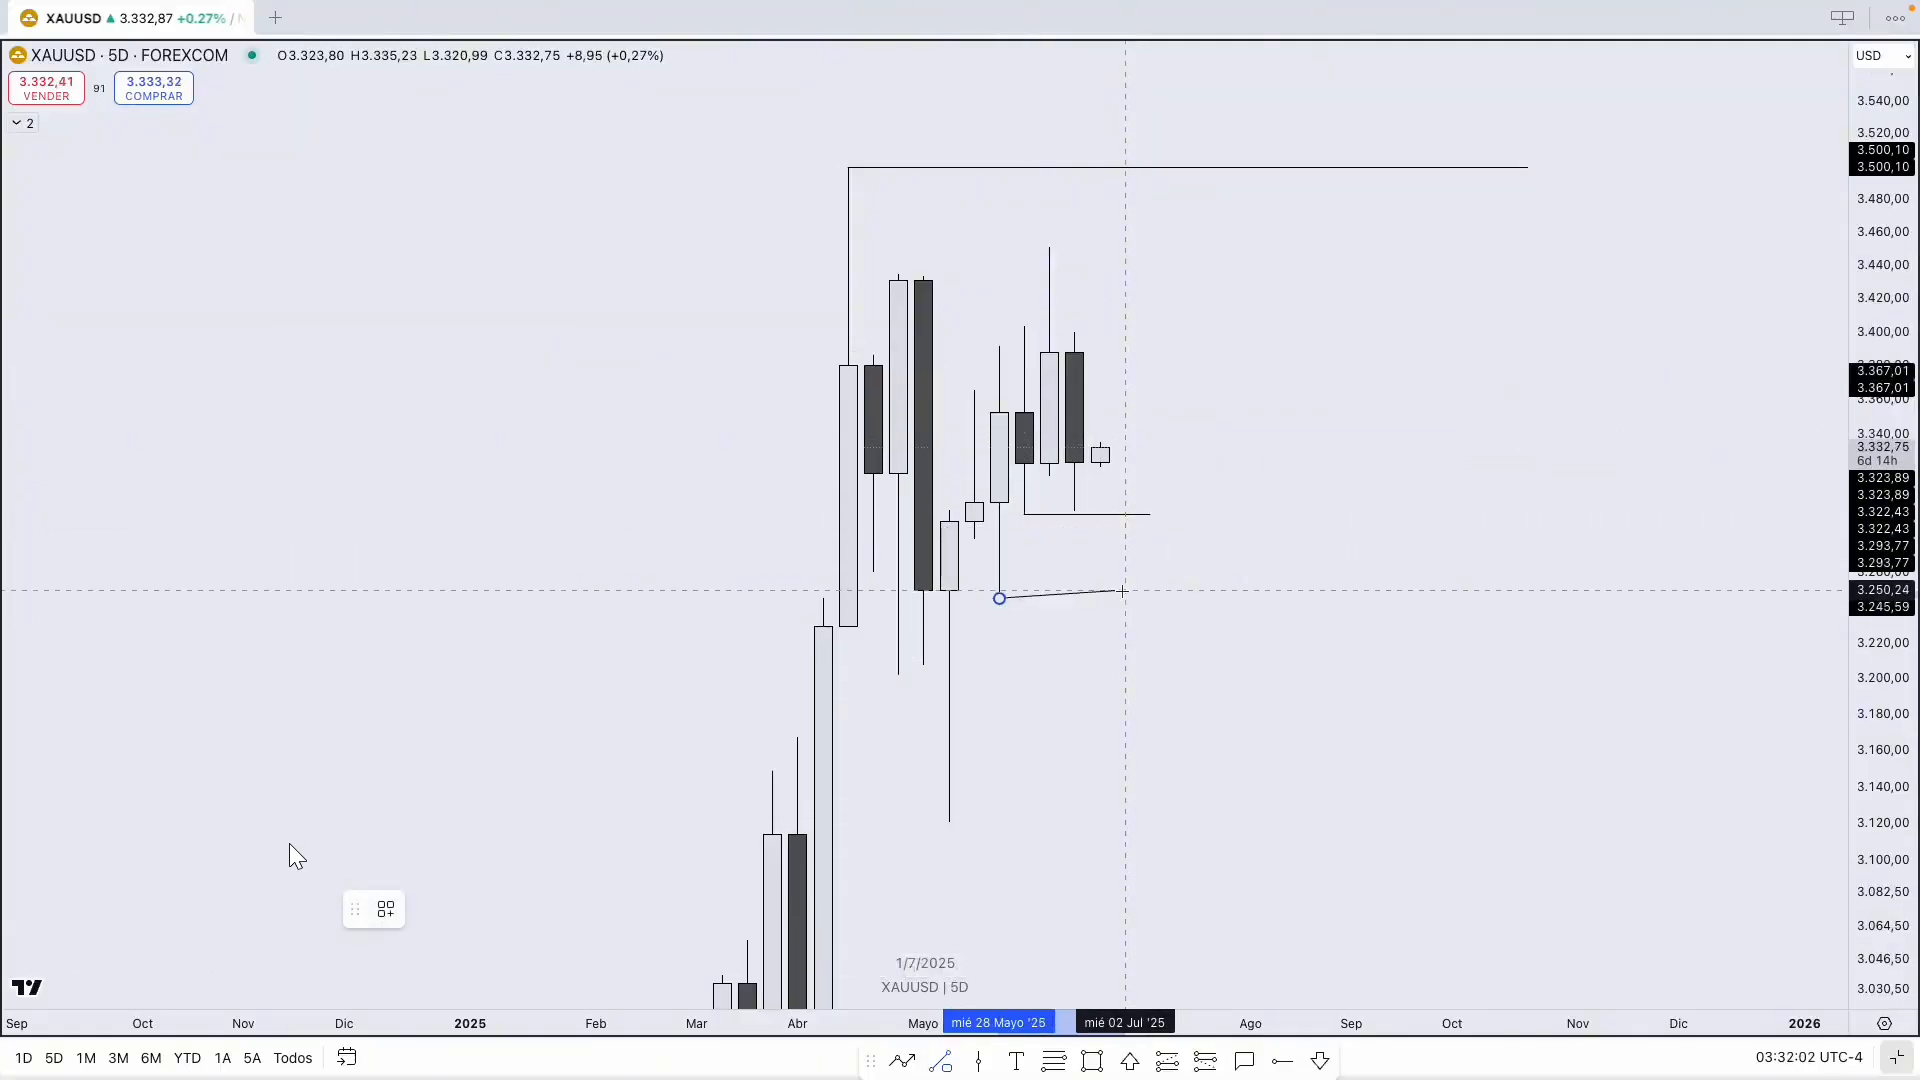
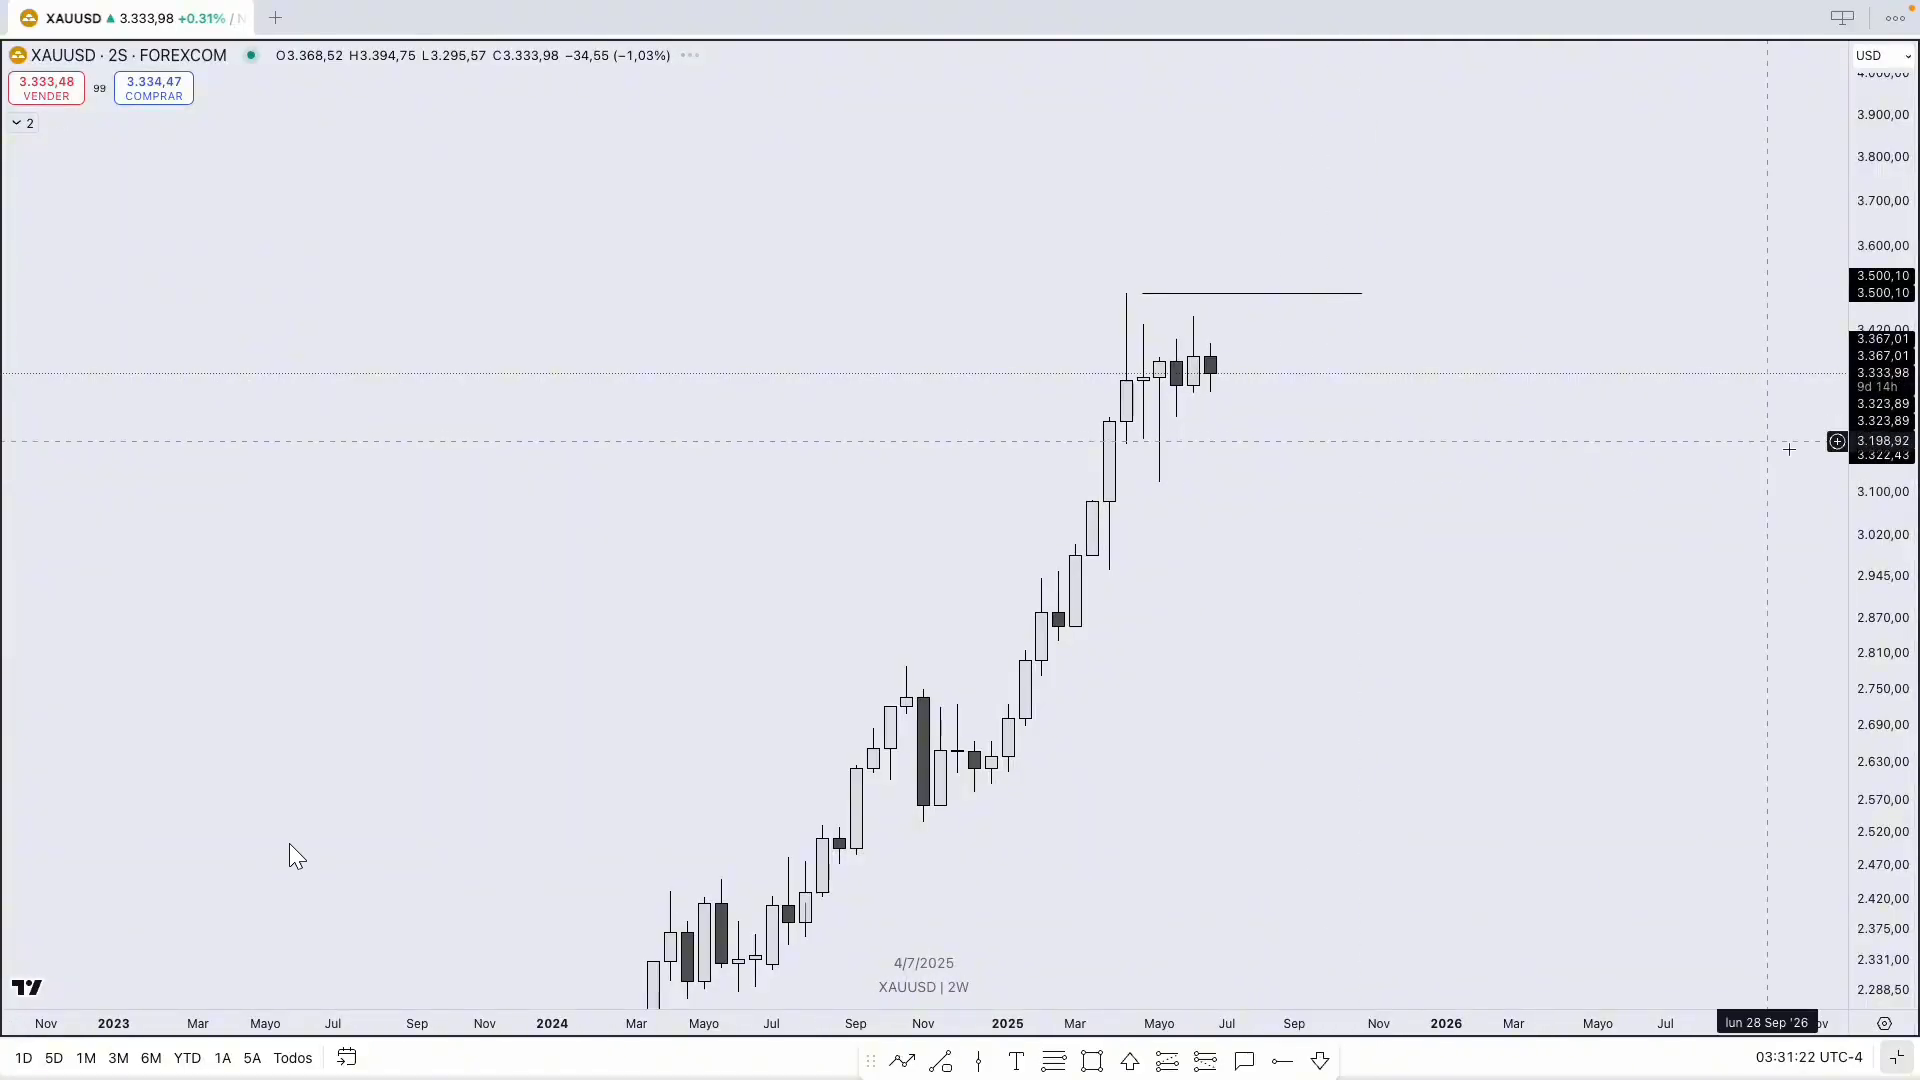
sync 08:43

diff --git a/main/10-projects/Echo/The Lab/V4 — Shot 2/2 — Preflight Evidence (U01–U06).md b/main/10-projects/Echo/The Lab/V4 — Shot 2/2 — Preflight Evidence (U01–U06).md
@@ -1,0 +1,143 @@
+# V4 Shot 2 — Evidencia de preflight (U01–U06 + A01/A02), revisión 2
+
+**Fecha de recolección:** 2026-10-20 23:48–00:40 CLST y 2026-10-21 11:15–11:40 CLST. **Emitida por:** Submanager Shot 2 (GLM-5.3-Flash Max, host daedalus, local). **Naturaleza:** trabajo directo read-only del submanager; NO constituye verificación independiente (reconocido en el dictamen Manager 2026-10-21). Los deltas de repo se citan contra `xKoRx/echo` @ `d74b6525` (origin/master 2026-10-20) y rama `origin/feature/e04-dev-ingest-recovery` @ `4aad647b`; PG DEV = `echo-develop` @ .220 vía MCP `aranea-postgres-rw` (sólo SELECT). Sin secretos; sin dumps pesados.
+
+**Clasificación de estados:** `VERIFIED` = evidencia mecánica reproducible obtenida por consulta/comando citado; `SPECIFIED_FOR_IMPLEMENTATION` = diseño fijado en el paquete rev 2, por demostrar en implementación; `NOT_DEMONSTRATED` = frontera abierta, acotada a la acción que bloquea.
+
+## Correcciones respecto de FINDINGS-U01-U06.md (2026-10-20)
+
+| # | Afirmación de la rev 1 | Estado real verificado | Evidencia |
+|---|---|---|---|
+| C1 | "065 (lab_curves_v3) NO aplicada en DEV" | **FALSA.** `echo.lab_curves`, `lab_curve_points`, `lab_curve_metrics` existen en DEV con el schema exacto de 065 (registry_namespace, strategy_version_ref, algorithm_id, algorithm_version, config_digest, history_digest…) y owner `echo_user`. El efecto de 065 está aplicado a mano como el de las demás | E06 |
+| C2 | "distribución del journal: mediana ~500, p95 ~25k ops" | **Incorrecta.** Distribución real REFERENCE por (strategy_id, canonical_symbol): 210 grupos, p50=19, p75=33, p95=59, p99=24.682, max=56.884 ops; por strategy_id: 131, p50=30, p95=64, max=132.805. Los SLOs y el workload del benchmark se congelan con la distribución medida | E09 |
+| C3 | "DEV con efectos aplicados a mano, sin tabla de control" (alcance parcial) | **Alcance completo:** DEV NO tiene ninguna tabla `schema_migrations` en ningún schema; toda la historia 001→065/068-carece de control. La reconciliación de la tabla de control es prerrequisito del plan de migraciones, no un detalle | E05 |
+| C4 | "066 sin aplicar en DEV" | **Confirmada.** No existen `echo.futures_*`; además el Core DEV desplegado (binario 2026-10-20 04:05) no muestra actividad de proyector ni del topic en logs recientes (0 líneas en últimas 200 y en ventana 20:00+) | E08 |
+
+## E01 — Divergencia e04 vs master (R01)
+
+- **Entorno:** clon `~/aranea/work/lab-v4-shot2-20261020/echo` (daedalus). **Fecha:** 2026-10-21.
+- **Comando:** `git log --oneline d74b6525..4aad647b`; `git rev-list --count 4aad647b..d74b6525`; `git diff d74b6525...4aad647b --stat`.
+- **Resultado:** 5 commits exclusivos de e04 (`2360369c` seeds+ingest wiring, `2498042f` policy_id gate, `3d260e81` platform token + migración, `988e0ae6` guard DeleteVar/dump mirror, `4aad647b` renumber 064→068); 305 commits del lado master; diff 34 archivos (+1.388/−852).
+- **Limitación:** equivalencia por contenido verificada por lectura de diffs y `git cherry` (patch-id), no por ejecución de tests de ambas ramas.
+- **Referencia:** reproducible con los mismos comandos en cualquier clon que tenga ambos refs.
+
+## E02 — Protección de seeds: master ya supera la variante e04 (R01)
+
+- **Entorno:** ídem E01. **Fecha:** 2026-10-21.
+- **Comando:** `git show d74b6525:v2/sdk/etcd/echo_seed_test.go` (y `v3/sdk/etcd/echo_seed_test.go`).
+- **Resultado:** master contiene `//go:build seeds` + `requireSeedAuthorization` (opt-in `ECHO_SEED_ALLOW`, `ETCD_ENDPOINTS` obligatorio, guard `isProductionClusterHost` contra apuntar DEV al clúster PROD) en v2 y v3. e04 además trae tooling nuevo (`v3/sdk/etcd/bootstrap.go` +215, `echo_config.go` +80, `cmd/echo-etcd-bootstrap` +127) y reescritura de seed tests que master no necesita.
+- **Limitación:** no se ejecutaron las suites `seeds` de ninguna rama (prohibido: escritura ETCD).
+- **Referencia:** repo `xKoRx/echo`, paths citados.
+
+## E03 — e04 modifica 061 en sitio (R01)
+
+- **Entorno:** ídem. **Fecha:** 2026-10-21.
+- **Comando:** `git diff d74b6525...4aad647b -- v3/sdk/postgres/migrations/061_identity_bwc_foundation.up.sql`; `git log --oneline 4aad647b -- <061>`.
+- **Resultado:** el commit `2360369c` agrega a 061 `echo.fn_mig061_owned()` y convierte en condicionales los drops de `v_lab_strategy_screener` y de 4 constraints FK de tablas `lab_*`. Es un **edit in-place de una migración ya aplicada** — se rechaza su adopción; la intención (lab legacy admin-owned en DEV) se captura en la migración nueva de retiro legacy de V4 con guard de ownership equivalente.
+- **Limitación:** ninguna material; la intención está además confirmada físicamente en E07.
+- **Referencia:** diff citado.
+
+## E04 — Migración 068 y CHECK de plataforma ya aplicado a mano en DEV (R01)
+
+- **Entorno:** repo + PG DEV. **Fecha:** 2026-10-21.
+- **Comando:** `git show 4aad647b:v3/sdk/postgres/migrations/068_strategy_version_forge_platform.up.sql`; SQL: `SELECT conname, pg_get_constraintdef(oid) FROM pg_constraint WHERE conrelid='echo.strategy_versions'::regclass AND contype='c'`.
+- **Resultado:** 068 reemplaza `chk_strategy_versions_platform` a `IN ('MT5','MT4','MetaTrader5','MetaTrader4')` (down se niega si hay filas Forge); DEV YA tiene ese CHECK de 4 tokens (efecto aplicado a mano, archivo de migración ausente de master). La receta de identidad `contracts.StrategyVersionRef` incluye `target_platform` en el hash (`v3/sdk/contracts/evidence.go:16-31`) → normalizar la grafía cambiaría `version_ref`; los tokens sellados se preservan tal cual.
+- **Limitación:** ninguna.
+- **Referencia:** diff + SQL citados.
+
+## E05 — DEV sin tabla de control de migraciones (R01)
+
+- **Entorno:** PG DEV. **Fecha:** 2026-10-21.
+- **Comando:** `SELECT table_name FROM information_schema.tables WHERE table_name ILIKE '%migration%'` (sin filtro de schema).
+- **Resultado:** 0 filas. El runner canónico es golang-migrate + `schema_migrations` (header de 061; toolkit `v3/toolkit/cmd/apply-migration`), pero DEV nunca tuvo la tabla.
+- **Limitación:** la reconstrucción del estado "qué migración quedó aplicada" se hará por verificación de efectos objeto a objeto en la tarea de reconciliación (no por la tabla, que no existe).
+- **Referencia:** SQL citado.
+
+## E06 — 065 aplicada en DEV, owner echo_user (R01 — corrige C1)
+
+- **Entorno:** PG DEV. **Fecha:** 2026-10-21.
+- **Comando:** SQL `information_schema.columns` sobre `echo.lab_curves`; join `pg_class/pg_roles`.
+- **Resultado:** schema de `lab_curves` coincide campo a campo con `065_lab_curves_v3.up.sql` (única migración que crea esas tablas); owner `echo_user`.
+- **Limitación:** contenido (filas) no auditado; irrelevante para el plan (V4 reemplaza las superficies lab legacy).
+- **Referencia:** SQL + archivo de migración.
+
+## E07 — Objetos lab legacy admin-owned en DEV (R01/R03 — soporta el guard)
+
+- **Entorno:** PG DEV. **Fecha:** 2026-10-21.
+- **Comando:** `SELECT c.relname, r.rolname FROM pg_class c ... WHERE relname IN ('v_lab_strategy_screener','lab_strategy_segments','lab_canonical_trades','lab_strategy_outcomes','lab_strategy_metric_snapshots',...)`.
+- **Resultado:** los 5 objetos citados por el guard de e04 son owner `admin`; `strategy_versions`, `promotion_records`, `canonical_operations`, `trade_journal`, `lab_curves*` son owner `echo_user`. No existen `strategy_histories` ni `futures_*`.
+- **Limitación:** ninguna.
+- **Referencia:** SQL citado.
+
+## E08 — 066 sin objetos y proyector sin actividad observable (R05)
+
+- **Entorno:** PG DEV + systemd/journalctl --user (daedalus, servicios DEV). **Fecha:** 2026-10-21.
+- **Comando:** SQL `information_schema.tables WHERE relname IN ('futures_operations','futures_fills',...)`; `systemctl --user list-units --type=service --state=running | grep echo`; `journalctl --user -u echo-core-dev.service -n 200 --no-pager | grep -icE "projector|operation-facts"`.
+- **Resultado:** 0 tablas `futures_*` (066 sin aplicar en DEV); servicios DEV activos: `echo-core-dev` (StateFun :9090), `echo-gateway-dev` (:8090), `echo-front-dev` (:4173); binarios desplegados `echo-core` 2026-10-20 04:05, `echo-gateway` 2026-10-19 10:19; 0 líneas de proyector/topic en logs recientes.
+- **Limitación:** observación directa sobre DEV; **PROD no inspeccionado** (fuera de alcance por mandato): la existencia de consumidores físicos de 066 en PROD queda `NOT_DEMONSTRATED` y bloquea sólo el retiro/drop de 066, no el desarrollo.
+- **Referencia:** comandos citados.
+
+## E09 — Distribución real del journal y tamaños serializados (R06)
+
+- **Entorno:** PG DEV. **Fecha:** 2026-10-21.
+- **Comando:** `SELECT strategy_id, canonical_symbol, count(*) FROM echo.trade_journal WHERE account_role='REFERENCE' AND status IN ('CLOSED','CLOSED_BY_USER','CLOSED_BY_AGENT') GROUP BY 1,2` + `percentile_cont`; medición de bytes: `octet_length(jsonb_agg(jsonb_build_object(<campos wire v1>))::text)` sobre 3 grupos representativos.
+- **Resultado:** 210 grupos (strategy, symbol): p50=19, p75=33, p95=59, p99=24.682, max=56.884 ops; 131 estrategias: p50=30, p95=64, max=132.805. Tamaño: 412–421 B/op; p50 ≈ 7,9 KB; p95 ≈ 24,8 KB; p99 ≈ 10,3 MB; **max medido 23,65 MB (56.884 ops)**. El formato medido es NDJSON/JSON con los 16 campos de `CanonicalOperationInputV1`; el envelope real añade cabecera y digests (mismo orden de magnitud).
+- **Limitación:** la serialización de medición fue jsonb de PG (no el serializador Go canónico); delta esperado <10%. La historia max (132.805 ops de una estrategia completa multi-símbolo) no se serializó entera: su cota superior es ~55 MB (132.805 × 421 B) — excede el request único de 64 MiB sólo combinada con otra historia grande; los caps por historia lo cubren.
+- **Referencia:** SQL citado; campos wire en `v3/sdk/contracts/strategy_history.go`.
+
+## E10 — Cobertura de risk_money en journal (R03)
+
+- **Entorno:** PG DEV. **Fecha:** 2026-10-21.
+- **Comando:** `SELECT account_role, count(*), count(risk_money) FROM echo.trade_journal GROUP BY 1`.
+- **Resultado:** REFERENCE 137.276 filas, 88.750 con risk_money (64,7%); EXECUTION 245.438, 101.543 (41,4%). Semántica del emisor (`v3/core/internal/functions/mm_engine.go:892-960`): riesgo inicial pre-offset **por ticket** del slave, calculado por el Core como única autoridad (`ComputeCanonicalRisk`, SL del master proyectado al broker del slave; NULL si no computable); `MoneyManagementType` FIXED_LOT/FIXED_RISK_USD.
+- **Limitación:** semántica de ticket, no de presupuesto de ciclo declarado (ver taxonomía R03 en el paquete).
+- **Referencia:** SQL + archivo:línea.
+
+## E11 — Volúmenes DEV de identidad/historia (U06)
+
+- **Entorno:** PG DEV. **Fecha:** 2026-10-21.
+- **Comando:** counts sobre `strategy_versions`, `strategy_identity_mappings`, `promotion_records`, `strategy_history_state`, `canonical_operations`.
+- **Resultado:** 6 versiones (2 plataformas distintas), 7 mappings, 6 promotion_records, 1 history head, 14 canonical_operations (14/14 con `initial_risk_money > 0`).
+- **Limitación:** dataset pequeño de verificación; sirve de fixture, no de muestra estadística.
+- **Referencia:** SQL citado.
+
+## E12 — Contratos del motor y autoridad económica (R02/R03)
+
+- **Entorno:** repo @ `d74b6525`. **Fecha:** 2026-10-21.
+- **Comando:** lectura de `v3/sdk/futures/domain/operation.go` (Operation/Order/Fill), `v3/sdk/futures/operation/engine.go:1051` (pin de `MMConfigSnapshot` al materializar), `v3/sdk/futures/operation/wire.go:64` (OperationFact), `v3/sdk/futures/accounting/ledger.go` (`ApplyFill(fill, feePerContract)`, realización exacta por ticks + fee por contrato/lado), `v3/sdk/futures/domain/economics.go:44` (EconomicPlanRow), `v3/core/internal/functions/mm_engine.go:533-538` (sello canónico del riesgo en CoreCommand).
+- **Resultado:** el agregado Operation ya transporta MMConfigSnapshot pinneado al materializar y Orders con parciales (`CumulativeFilledQty`); el Ledger es la autoridad existente de realizaciones/costes (usado por el backtester; aún no cableado a los facts del runtime live); el sello de riesgo por ticket vive hoy en el Core (motor MT4/MT5), no en el motor futures.
+- **Limitación:** ninguna para nivel de contrato; la verificación conductual (parciales/costes → historia) queda como caso verificable T de implementación.
+- **Referencia:** archivos:líneas citados.
+
+## E13 — Replacement V1 destructivo y patrón de receipts (R04)
+
+- **Entorno:** repo @ `d74b6525`. **Fecha:** 2026-10-21.
+- **Comando:** lectura de `v3/sdk/postgres/strategy_history_service.go:100-160` y `v3/sdk/postgres/migrations/061_identity_bwc_foundation.up.sql:394-414` (promotion_records); `v3/gateway/internal/strategy_history_handler.go:85` (`readLimitedBody` sobre el request completo) y `v3/gateway/internal/config.go:96` (`historyDefaultMaxBodyBytes = 64 MiB`).
+- **Resultado:** el replacement V1 hace `DeleteImportedOperations` (DELETE+INSERT) → destruye la revisión previa; `promotion_records` ya implementa el patrón receipt (idempotency_key sha256, payload_digest, accepted_body_canonical jsonb, status) — el nuevo receipt de ingestion será tabla propia con ese patrón, sin generalizar promotion_records. El límite de 64 MiB aplica al **request completo** (v1: PUT de historia; v2: POST version+historias), sin partial success.
+- **Limitación:** ninguna.
+- **Referencia:** archivos:líneas citados.
+
+## Clasificación de consumidores que determinan naming/cutover (R05 — U05)
+
+| Clase | Elementos | Verificación | Determina |
+|---|---|---|---|
+| Procesos desplegados (DEV) | echo-core-dev (StateFun :9090), echo-gateway-dev, echo-front-dev | VERIFIED hoy (E08) | ventanas de deploy y cutover de topics |
+| Productores del topic `echo.futures.operation-facts.v1` | operation owner (StateFun), futuresruntime, futures-bridge | VERIFIED en código (`v3/sdk/statefun/futures_constants.go:128`, `v3/sdk/futures/operation/wire.go:40`) | naming del topic v2 y cutover de productores |
+| Consumidores del topic v1 | proyector 066 (código en repo; sin actividad observable en DEV; tablas ausentes) | VERIFIED ausencia física DEV; PROD NOT_DEMONSTRATED | retiro de 066 (drop gated, nunca por grep) |
+| Dependencia build-time `v3/sdk/futures` | backtester (49 archivos), core functions/futuresruntime/futuresvertical, futures-bridge, projector | VERIFIED en código (inventario 2026-10-20) | secuencia de renombres Go, coordinación con `feature/ef-runtime-pools` (dueña del grammar de typenames Java) |
+| Identidad de contrato compartida | `contracts.StrategyVersionRef` (platform en el hash) | VERIFIED (E04) | prohibición de normalizar tokens sellados |
+| Superficies lab legacy (front/Hasura/SQL/worker) | inventario 2026-10-20 (backend, 4 cmds worker, 3 jobs SQL, LabView.vue, 8 yamls Hasura) | VERIFIED en código | inventario CURRENT→TARGET (REUSE/ADAPT/REPLACE/DELETE/OUT_OF_SCOPE) en primera tarea de integración |
+| Frontera abierta | consumidores físicos en PROD de 065/066 y de naming futures | NOT_DEMONSTRATED (sin acceso PROD por mandato) | bloquea SÓLO el drop/retiro de 066 en cualquier entorno compartido con PROD; no bloquea desarrollo, migraciones aditivas 067+ ni cutover en DEV |
+
+## Estado U01–U06 / A01 / A02 tras la reparación
+
+| Unidad | Estado | Base |
+|---|---|---|
+| U01 lineage versión/MM/Q_i | VERIFIED (flujos existentes) + Q_i runtime SPECIFIED_FOR_IMPLEMENTATION | E10, E12 |
+| U02 histórico/retención/reproducción | VERIFIED (gap destructivo comprobado) + revisionado SPECIFIED_FOR_IMPLEMENTATION | E13 |
+| U03 tamaños/transporte | VERIFIED (medido 2026-10-21) | E09, E13 |
+| U04 capacidad/SLOs | SPECIFIED_FOR_IMPLEMENTATION (metodología y gates congelados; runtime inexistente NO certificado) | paquete §R06 |
+| U05 naming/migración | VERIFIED (inventario código + física DEV) con frontera PROD NOT_DEMONSTRATED acotada | E03-E08, tabla consumidores |
+| U06 baseline/entornos | VERIFIED (re-verificado 2026-10-21) | E01-E07, E11 |
+| A01 | PARCIAL (igual que rev 1): IDs estables demostrados; Q_i genérico inexistente, delta especificado | E10, E12 |
+| A02 | SÍ con condición (igual que rev 1): retención posible con registro de revisiones + artefacto por revisión | E13 |

diff --git a/main/10-projects/Personal/Multimodal Knowledge Engine/knowledge-library/clutifx/ch08-proceso/FRAMES.md b/main/10-projects/Personal/Multimodal Knowledge Engine/knowledge-library/clutifx/ch08-proceso/FRAMES.md
@@ -84,6 +84,7 @@
 - [[10-projects/Personal/Multimodal Knowledge Engine/knowledge-library/clutifx/ch08-proceso/frames/f-001532.png|f-001532]] · 00:15:32 · bajo demanda · citado por: [[10-projects/Personal/Multimodal Knowledge Engine/knowledge-library/clutifx/ch08-proceso/CLAIMS#c-0075|c-0075]]
 - [[10-projects/Personal/Multimodal Knowledge Engine/knowledge-library/clutifx/ch08-proceso/frames/f-001534.png|f-001534]] · 00:15:34 · bajo demanda · contextual
 - [[10-projects/Personal/Multimodal Knowledge Engine/knowledge-library/clutifx/ch08-proceso/frames/f-001535.png|f-001535]] · 00:15:35 · bajo demanda · citado por: [[10-projects/Personal/Multimodal Knowledge Engine/knowledge-library/clutifx/ch08-proceso/CLAIMS#c-0075|c-0075]]
+- [[10-projects/Personal/Multimodal Knowledge Engine/knowledge-library/clutifx/ch08-proceso/frames/f-001536.png|f-001536]] · 00:15:36 · bajo demanda · contextual
 - [[10-projects/Personal/Multimodal Knowledge Engine/knowledge-library/clutifx/ch08-proceso/frames/f-001540.png|f-001540]] · 00:15:40 · bajo demanda · citado por: [[10-projects/Personal/Multimodal Knowledge Engine/knowledge-library/clutifx/ch08-proceso/CLAIMS#c-0076|c-0076]]
 - [[10-projects/Personal/Multimodal Knowledge Engine/knowledge-library/clutifx/ch08-proceso/frames/f-001550.png|f-001550]] · 00:15:50 · bajo demanda · citado por: [[10-projects/Personal/Multimodal Knowledge Engine/knowledge-library/clutifx/ch08-proceso/CLAIMS#c-0078|c-0078]]
 - [[10-projects/Personal/Multimodal Knowledge Engine/knowledge-library/clutifx/ch08-proceso/frames/f-001552.png|f-001552]] · 00:15:52 · bajo demanda · citado por: [[10-projects/Personal/Multimodal Knowledge Engine/knowledge-library/clutifx/ch08-proceso/CLAIMS#c-0078|c-0078]]
